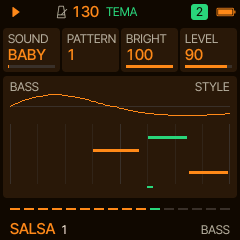
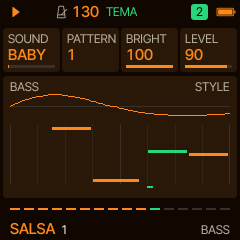
The instrument pages show the notes ahead
Each bar (stopped: every 0.4 s) the groove runs ahead on a copy, dry: the rest
of this bar and the next, the notes written down, nothing sounding (the same
seeds: the same notes). The roll shows those, this bar's played steps as they
sounded; stopped, the two bars PLAY would start with. EDIT starts from them.

Claude-Session: https://claude.ai/code/session_01VgesZfE8qndbNyhtoqzKDD

diff --git a/firmware/src/ma_groove.c b/firmware/src/ma_groove.c
@@ -83,6 +83,10 @@ static ma_pats pats_now MA_POOL, pats_edit MA_POOL, pats_sets[MA_SETS] MA_POOL;
 static uint8_t cap_n[3][MA_PAT_STEPS][MA_PAT_NOTES] MA_POOL;   /* MIDI, 0 none */
 static uint8_t cap_len[3][MA_PAT_STEPS] MA_POOL;
 static uint32_t cap_dr[MA_PAT_STEPS] MA_POOL;
+static uint8_t fut_n[3][MA_PAT_STEPS][MA_PAT_NOTES] MA_POOL;   /* the same, ahead (ma_preview) */
+static uint8_t fut_len[3][MA_PAT_STEPS] MA_POOL;
+static uint32_t fut_dr[MA_PAT_STEPS] MA_POOL;
+static ma_groove sim_g MA_POOL;
 ma_pats *ma_pats_now(void) { return &pats_now; }
 ma_pats *ma_pats_set(int i) { return &pats_sets[clampi(i, 0, MA_SETS - 1)]; }
 const ma_pats *ma_pats_edit(void) { return &pats_edit; }
@@ -827,6 +831,9 @@ void ma_init(ma_groove *g, float sample_rate)
     memset(cap_n, 0, sizeof cap_n);
     memset(cap_len, 0, sizeof cap_len);
     memset(cap_dr, 0, sizeof cap_dr);
+    memset(fut_n, 0, sizeof fut_n);
+    memset(fut_len, 0, sizeof fut_len);
+    memset(fut_dr, 0, sizeof fut_dr);
     for (int p = 0; p < MA_PARTS; ++p)
         g->tone[p] = 127;
     g->pan_horns = 64;
@@ -942,22 +949,26 @@ static void schedule(ma_groove *g, uint32_t delay, int part, int n, int vel, flo
     if (part == MA_PIANO || part == MA_KEYS)       /* the piano kept out of its thin top: down an octave above A5 */
         while (n > 81)
             n -= 12;
-    if (g->step >= 0 && g->bar >= 0) {             /* what it played (the instrument pages, EDIT's start) */
+    if (g->step >= 0 && g->bar >= 0) {             /* what it played (the instrument pages, EDIT's start), or will */
         int pos = cbar(g, g->bar) * 16 + g->step;
+        uint8_t (*cn)[MA_PAT_STEPS][MA_PAT_NOTES] = g->sim ? fut_n : cap_n;
+        uint8_t (*cl)[MA_PAT_STEPS] = g->sim ? fut_len : cap_len;
         if (part == MA_PERC) {
-            cap_dr[pos] |= 1u << clampi(n, 0, 31);
+            (g->sim ? fut_dr : cap_dr)[pos] |= 1u << clampi(n, 0, 31);
         } else if (part < MA_PERC) {
             for (int k = 0; k < MA_PAT_NOTES; ++k)
-                if (cap_n[part][pos][k] == 0 || cap_n[part][pos][k] == n) {
-                    cap_n[part][pos][k] = (uint8_t)clampi(n, 1, 127);
+                if (cn[part][pos][k] == 0 || cn[part][pos][k] == n) {
+                    cn[part][pos][k] = (uint8_t)clampi(n, 1, 127);
                     break;
                 }
             float sf = step_frames(g);
             int ls = clampi((int)(len / sf + 0.5f), 1, 16);
-            if (ls > cap_len[part][pos])
-                cap_len[part][pos] = (uint8_t)ls;
+            if (ls > cl[part][pos])
+                cl[part][pos] = (uint8_t)ls;
         }
     }
+    if (g->sim)                                    /* (a dry run: written down only) */
+        return;
     if (delay == 0 || npend >= MA_PEND) {
         note(g, part, n, vel, len);
         return;
@@ -1967,19 +1978,50 @@ int ma_pat_notes(const ma_groove *g, const ma_pats *p, int part, int k, int out[
     *len = p->len[part][k] ? p->len[part][k] : 1;
     return n;
 }
+/* step k sounded already (this bar's, up to the step playing): as it was; else as the dry run has it */
+static bool past(const ma_groove *g, int k)
+{
+    return g->playing && g->step >= 0 && k / 16 == cbar(g, g->bar) && k % 16 <= g->step;
+}
 int ma_played(const ma_groove *g, int part, int k, int out[MA_PAT_NOTES], int *len)
 {
-    (void)g;
     int n = 0;
     if (part < 0 || part > 2 || k < 0 || k >= MA_PAT_STEPS)
         return 0;
+    const uint8_t *src = past(g, k) ? cap_n[part][k] : fut_n[part][k];
     for (int j = 0; j < MA_PAT_NOTES; ++j)
-        if (cap_n[part][k][j])
-            out[n++] = cap_n[part][k][j];
-    *len = cap_len[part][k] ? cap_len[part][k] : 1;
+        if (src[j])
+            out[n++] = src[j];
+    int l = past(g, k) ? cap_len[part][k] : fut_len[part][k];
+    *len = l ? l : 1;
     return n;
 }
-uint32_t ma_played_dr(int k) { return cap_dr[clampi(k, 0, MA_PAT_STEPS - 1)]; }
+uint32_t ma_played_dr(const ma_groove *g, int k)
+{
+    k = clampi(k, 0, MA_PAT_STEPS - 1);
+    return past(g, k) ? cap_dr[k] : fut_dr[k];
+}
+
+/* the groove run ahead on a copy, dry: playing, the rest of this bar and the next; stopped, the first two bars PLAY
+ * would play. The notes land in fut_*; nothing sounds, the copy's clock and randomness are its own (the same seeds:
+ * the same notes, but for the keys and what is turned meanwhile) */
+static void do_step(ma_groove *g);
+void ma_preview(const ma_groove *g)
+{
+    sim_g = *g;
+    sim_g.sim = true;
+    sim_g.sound = 0;
+    memset(fut_n, 0, sizeof fut_n);
+    memset(fut_len, 0, sizeof fut_len);
+    memset(fut_dr, 0, sizeof fut_dr);
+    int steps = 32;
+    if (!sim_g.playing)
+        ma_play(&sim_g, true);
+    else
+        steps = 31 - (sim_g.step < 0 ? 0 : sim_g.step);
+    for (int k = 0; k < steps; ++k)
+        do_step(&sim_g);
+}
 
 /* the pattern the part plays now, if its own: the edit's copy while it is edited, MINE's when saved so */
 static const ma_pats *mine_for(const ma_groove *g, int part)
@@ -2015,14 +2057,17 @@ void ma_edit_begin(ma_groove *g, int part)
         return;
     pats_edit = pats_now;                          /* (the other parts as they are: only this one is written) */
     if (!((pats_now.has >> part) & 1u)) {          /* none of its own yet: what it played, to write over */
+        ma_preview(g);                             /* (what it plays over the two bars, ahead where not yet played) */
         if (part == MA_PERC) {
-            memcpy(pats_edit.dr, cap_dr, sizeof cap_dr);
+            for (int k = 0; k < MA_PAT_STEPS; ++k)
+                pats_edit.dr[k] = ma_played_dr(g, k);
         } else {
             for (int k = 0; k < MA_PAT_STEPS; ++k) {
                 const ma_chord *c = pos_chord(g, k);
+                int out[MA_PAT_NOTES], len, n = ma_played(g, part, k, out, &len);
                 for (int j = 0; j < MA_PAT_NOTES; ++j)
-                    pats_edit.n[part][k][j] = cap_n[part][k][j] ? (int8_t)pat_off(c, cap_n[part][k][j]) : MA_PAT_REST;
-                pats_edit.len[part][k] = cap_len[part][k];
+                    pats_edit.n[part][k][j] = j < n ? (int8_t)pat_off(c, out[j]) : MA_PAT_REST;
+                pats_edit.len[part][k] = (uint8_t)(n ? len : 0);
             }
         }
     }
@@ -2152,7 +2197,7 @@ static void do_step(ma_groove *g)
     int i = g->step;
     if (i == 0)
         g->rnd = (uint32_t)g->bar * 2654435761u + (uint32_t)g->s.song * 97u + 1u;
-    {   /* this step's place in what was played: written afresh */
+    if (!g->sim) {   /* this step's place in what was played: written afresh */
         int pos = cbar(g, g->bar) * 16 + i;
         for (int p = 0; p < 3; ++p) {
             for (int j = 0; j < MA_PAT_NOTES; ++j)
@@ -2227,7 +2272,8 @@ void ma_play(ma_groove *g, bool on)
     if (on == g->playing)
         return;
     ma_all_off(g);
-    npend = 0;
+    if (!g->sim)
+        npend = 0;
     g->playing = on;
     g->clock = 0;
     g->wait = 0;

diff --git a/firmware/src/ma_ui.c b/firmware/src/ma_ui.c
@@ -758,7 +758,7 @@ static void mu_panel_inst(ma_ui *u, int part)
     }
     mu_steps_grid(g, x0, y0, w, h);
     if (!nn) {
-        mu_label(18, y0 + 22, editing ? "THE KEYS WRITE ITS NOTES" : "PLAY: ITS NOTES SHOW HERE", T_DIM);
+        mu_label(18, y0 + 22, editing ? "THE KEYS WRITE ITS NOTES" : "IT RESTS THESE TWO BARS", T_DIM);
         return;
     }
     if (hi - lo < 12) {
@@ -789,13 +789,13 @@ static void mu_panel_perc(ma_ui *u)
     mu_scope(u, MA_PERC, 10, 16, 220, 18, g->playing ? T_ACCENT : T_DIM);
     uint32_t used = 0, bits[MA_PAT_STEPS];
     for (int k = 0; k < MA_PAT_STEPS; ++k) {
-        bits[k] = editing ? ma_pats_edit()->dr[k] : ma_played_dr(k);
+        bits[k] = editing ? ma_pats_edit()->dr[k] : ma_played_dr(g, k);
         used |= bits[k];
     }
     int32_t x0 = 58, w = 172, y0 = 38, rows = 0;
     mu_steps_grid(g, x0, y0, w, 74);
     if (!used) {
-        mu_label(18, y0 + 30, editing ? "KEYS: THE DRUMS, LOW TO HIGH" : "PLAY: ITS DRUMS SHOW HERE", T_DIM);
+        mu_label(18, y0 + 30, editing ? "KEYS: THE DRUMS, LOW TO HIGH" : "IT RESTS THESE TWO BARS", T_DIM);
         return;
     }
     int pos = ma_pos(g);
@@ -1054,6 +1054,8 @@ void mu_init(ma_ui *u, ma_groove *g)
     memset(u, 0, sizeof *u);
     u->g = g;
     u->page = MU_PG_SCOPES;
+    u->pv_bar = -9;
+    u->pv_page = -1;
     u->inst_page = MU_PG_IPIANO;
     u->hot = -1;
     u->batt = 3;
@@ -1375,6 +1377,17 @@ void mu_tick(ma_ui *u, int ms)
         u->force = true;
     }
     if (u->msg_ms > 0) u->msg_ms -= ms;
+    /* the instrument pages: what the parts will play, run ahead each bar (stopped: now and then, the settings may
+     * have changed) */
+    if (mu_page_part(u->page) >= 0) {
+        u->pv_ms -= ms;
+        if ((g->playing && g->bar != u->pv_bar) || u->pv_ms <= 0 || u->pv_page != u->page) {
+            ma_preview(g);
+            u->pv_bar = g->bar;
+            u->pv_page = u->page;
+            u->pv_ms = g->playing ? 2000 : 400;
+        }
+    }
     if (u->play_down && !u->play_held && (u->play_ms += ms) >= MU_FADE_HOLD_MS) {
         u->play_held = true;                       /* held: the fade (held again during one: nothing more) */
         if (u->g->playing && u->fade_ms <= 0) {

diff --git a/firmware/src/ma_groove.h b/firmware/src/ma_groove.h
@@ -197,6 +197,7 @@ typedef struct {
     char msg[24];                                  /* a word for the screen ("NEXT MAMBO", "BAND HIT"); the UI clears it */
     uint8_t msg_new;
     /* EDIT: the part being edited (-1 none) plays the edit's copy; the keys write into it */
+    bool sim;                                      /* a dry run (ma_preview's copy): notes written down, not played */
     int8_t edit;
     uint8_t ecur;                                  /* stopped: the step the keys write (0..31) */
     uint8_t elen;                                  /* stopped: the length they write (steps) */
@@ -275,9 +276,11 @@ int ma_edit_pos(const ma_groove *g);               /* the step the keys write no
 int ma_pos(const ma_groove *g);                    /* the step playing in the two bars (0..31; -1 stopped) */
 int ma_key_drum(int k);                            /* PERC: the drum on key k */
 const char *ma_drum_short(int d);                  /* a drum's name, short (the PERC grid) */
-/* what each part played over the last two bars (the instrument pages): its notes at step k (MIDI, 0 none) */
+/* what each part plays over the two bars of the clave (the instrument pages): this bar's steps played so far as they
+ * sounded, the rest as they will (ma_preview ran the groove ahead, dry); its notes at step k (MIDI) */
+void ma_preview(const ma_groove *g);               /* the main loop: a new bar, a change (not the audio's) */
 int ma_played(const ma_groove *g, int part, int k, int out[MA_PAT_NOTES], int *len);
-uint32_t ma_played_dr(int k);                      /* PERC: the drums at step k */
+uint32_t ma_played_dr(const ma_groove *g, int k);  /* PERC: the drums at step k */
 int ma_pat_notes(const ma_groove *g, const ma_pats *p, int part, int k, int out[MA_PAT_NOTES], int *len);   /* a
                                                     * pattern's notes at step k over the chord of its bar, MIDI */
 

diff --git a/firmware/src/ma_ui.h b/firmware/src/ma_ui.h
@@ -74,6 +74,7 @@ typedef struct {
     bool changed;                         /* a setting changed: the glue applies it (sound, mix) and saves it later */
     bool pats_changed;                    /* a pattern saved (EDIT) or a set's stored: the glue saves them, stopped */
     int inst_page;                        /* EDIT elsewhere: the instrument page last seen */
+    int pv_bar, pv_ms, pv_page;           /* the parts' notes ahead (ma_preview): last run at that bar, that page */
     int8_t scope[4][MU_SCOPE_W];          /* each part's scope (the glue's; zeros: silent) */
     bool scope_live[4];
     uint32_t sig_head, sig_card[4], sig_foot;

diff --git a/docs/MANUAL.md b/docs/MANUAL.md
@@ -76,7 +76,7 @@ and on, and SEQ and REC are yours to shape it.
 | **SOLO** (LFO) | **INSTR** the solo's sound (the HORNS sound: the section and the solo share the track). **MUTE** AUTO (the default: the section's chords open, and each solo turn takes the next mute, CONE, CUP, HARMON, WAH and round), or one for the whole HORNS track, the section and the solo alike: OPEN, CONE (the straight mute), CUP, HARMON or WAH (the harmon's stem opening and closing on each note); filters over the open horn, so they cost no flash (on TPT+TBN and TPT a real mute's filter; on the other sounds the tone darker). BOLERO's horns sit back in its mix. **PHRASE** where the solo's lines come from: GEN, made in the style; TRAD and MIX, phrases from traditional songs, are coming and play GEN for now. **BELL** how bright the bell sounds. |
 | **PAN 3D** (LFO again) | As [Sardine](https://github.com/delirioux/sardine)'s, for the solo, on headphones. **MODE** OFF, FIXED (where ANGLE puts it), ORBIT (round your head, a bar a step) or STEP (a new place each phrase). **ANGLE** FRONT, R10 to R170, BACK, L170 to L10. **HEIGHT** up or down. **DIST** near or far. Behind you the bell turns away and the trumpet goes duller; far off it goes softer. The cards are grey while MODE is OFF. In 0.1 PAN 3D is the bell's tone, the level and the pan; Sardine's binaural filters are next. |
 | **SCOPES** (HOME) | The home screen: the four parts' scopes (PLAY's cards). |
-| **PIANO**, **BASS**, **HORNS** (HOME past PLAY) | The instrument pages: the part's scope and, over the two bars of the clave, the notes it plays as a roll. **SOUND**, **PATTERN** (the style's 1 to 4; MINE while its own plays, turned back to the style's), **BRIGHT** (100 the sound as it is, lower darker), **LEVEL**; the HORNS' second card is the **MUTE**. |
+| **PIANO**, **BASS**, **HORNS** (HOME past PLAY) | The instrument pages: the part's scope and, over the two bars of the clave, the notes it plays as a roll: this bar's as they sounded up to the step playing, the rest as they will (Manta runs the band ahead, silently, each bar; stopped, the two bars PLAY would start with). **SOUND**, **PATTERN** (the style's 1 to 4; MINE while its own plays, turned back to the style's), **BRIGHT** (100 the sound as it is, lower darker), **LEVEL**; the HORNS' second card is the **MUTE**. |
 | **PERC** (HOME past HORNS) | Its scope and the drums over the two bars. **CONGAS** OFF, AUTO (the style's), TUMBAO, MARCHA, BOLERO. **BONGO** OFF, AUTO, MARTIL (the martillo), BELL (the bongo bell, in the montuno). **TIMBAL** OFF, AUTO, SHELL (the cascara on the shell), BELL. **EXTRA** OFF, AUTO, GUIRO, SHAKER, CABASA, WASH (the washboard: one scrape a bar, now and then a tap when it is hot). Grey while its own pattern plays. |
 | **KEY** (SCL) | **KEY** the root. **SCALE** MIN, MAJ, DOR (dorian), HARM (harmonic minor). **CHORDS** a chord loop. **BARS** a chord lasts 1, 2 or 4 bars. |
 | **GROOVE** (ARP) | **SWING** on the sixteenths (salsa plays it straight, cumbia and bossa a little swung). **PIANO** the montuno's pattern, 1 to 4 of the style's own (the GUITAR has two a style: 1 and 3 the first, 2 and 4 the second). **BASS** the tumbao's pattern, 1 to 4. **FILLS** every 8, 4 or 2 bars, or none: the timbal's and the conga's fills into the next phrase. |
